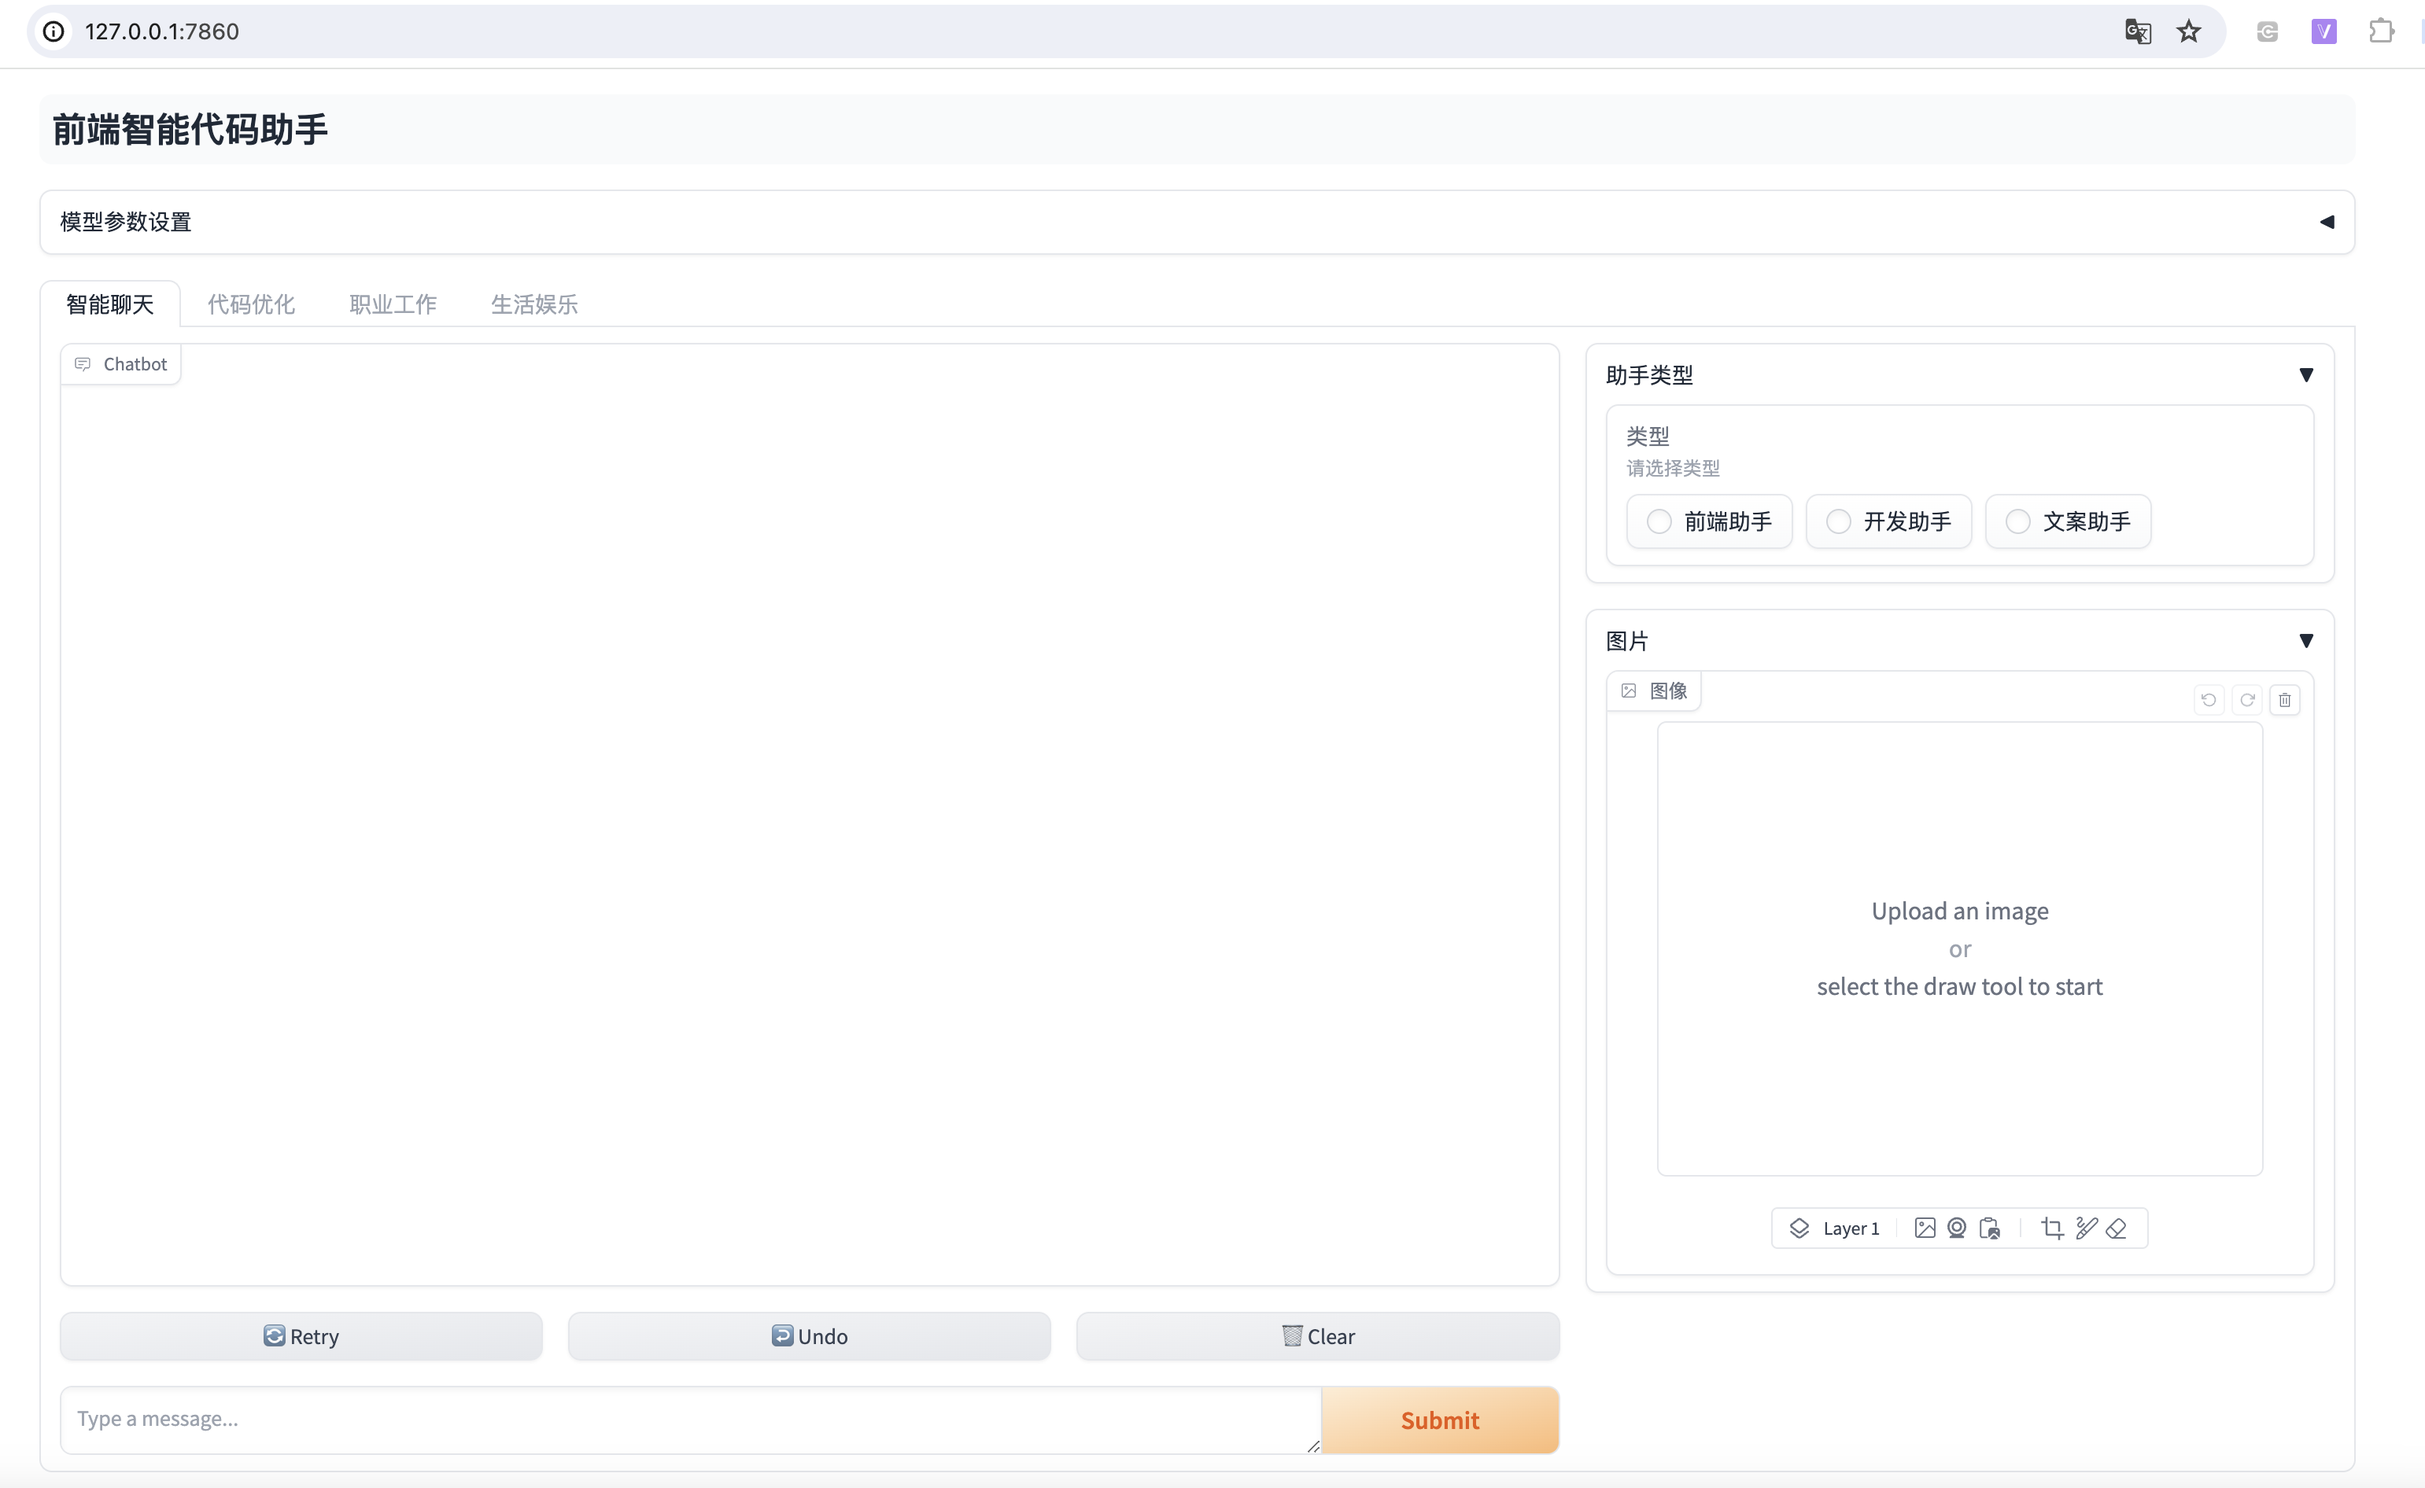
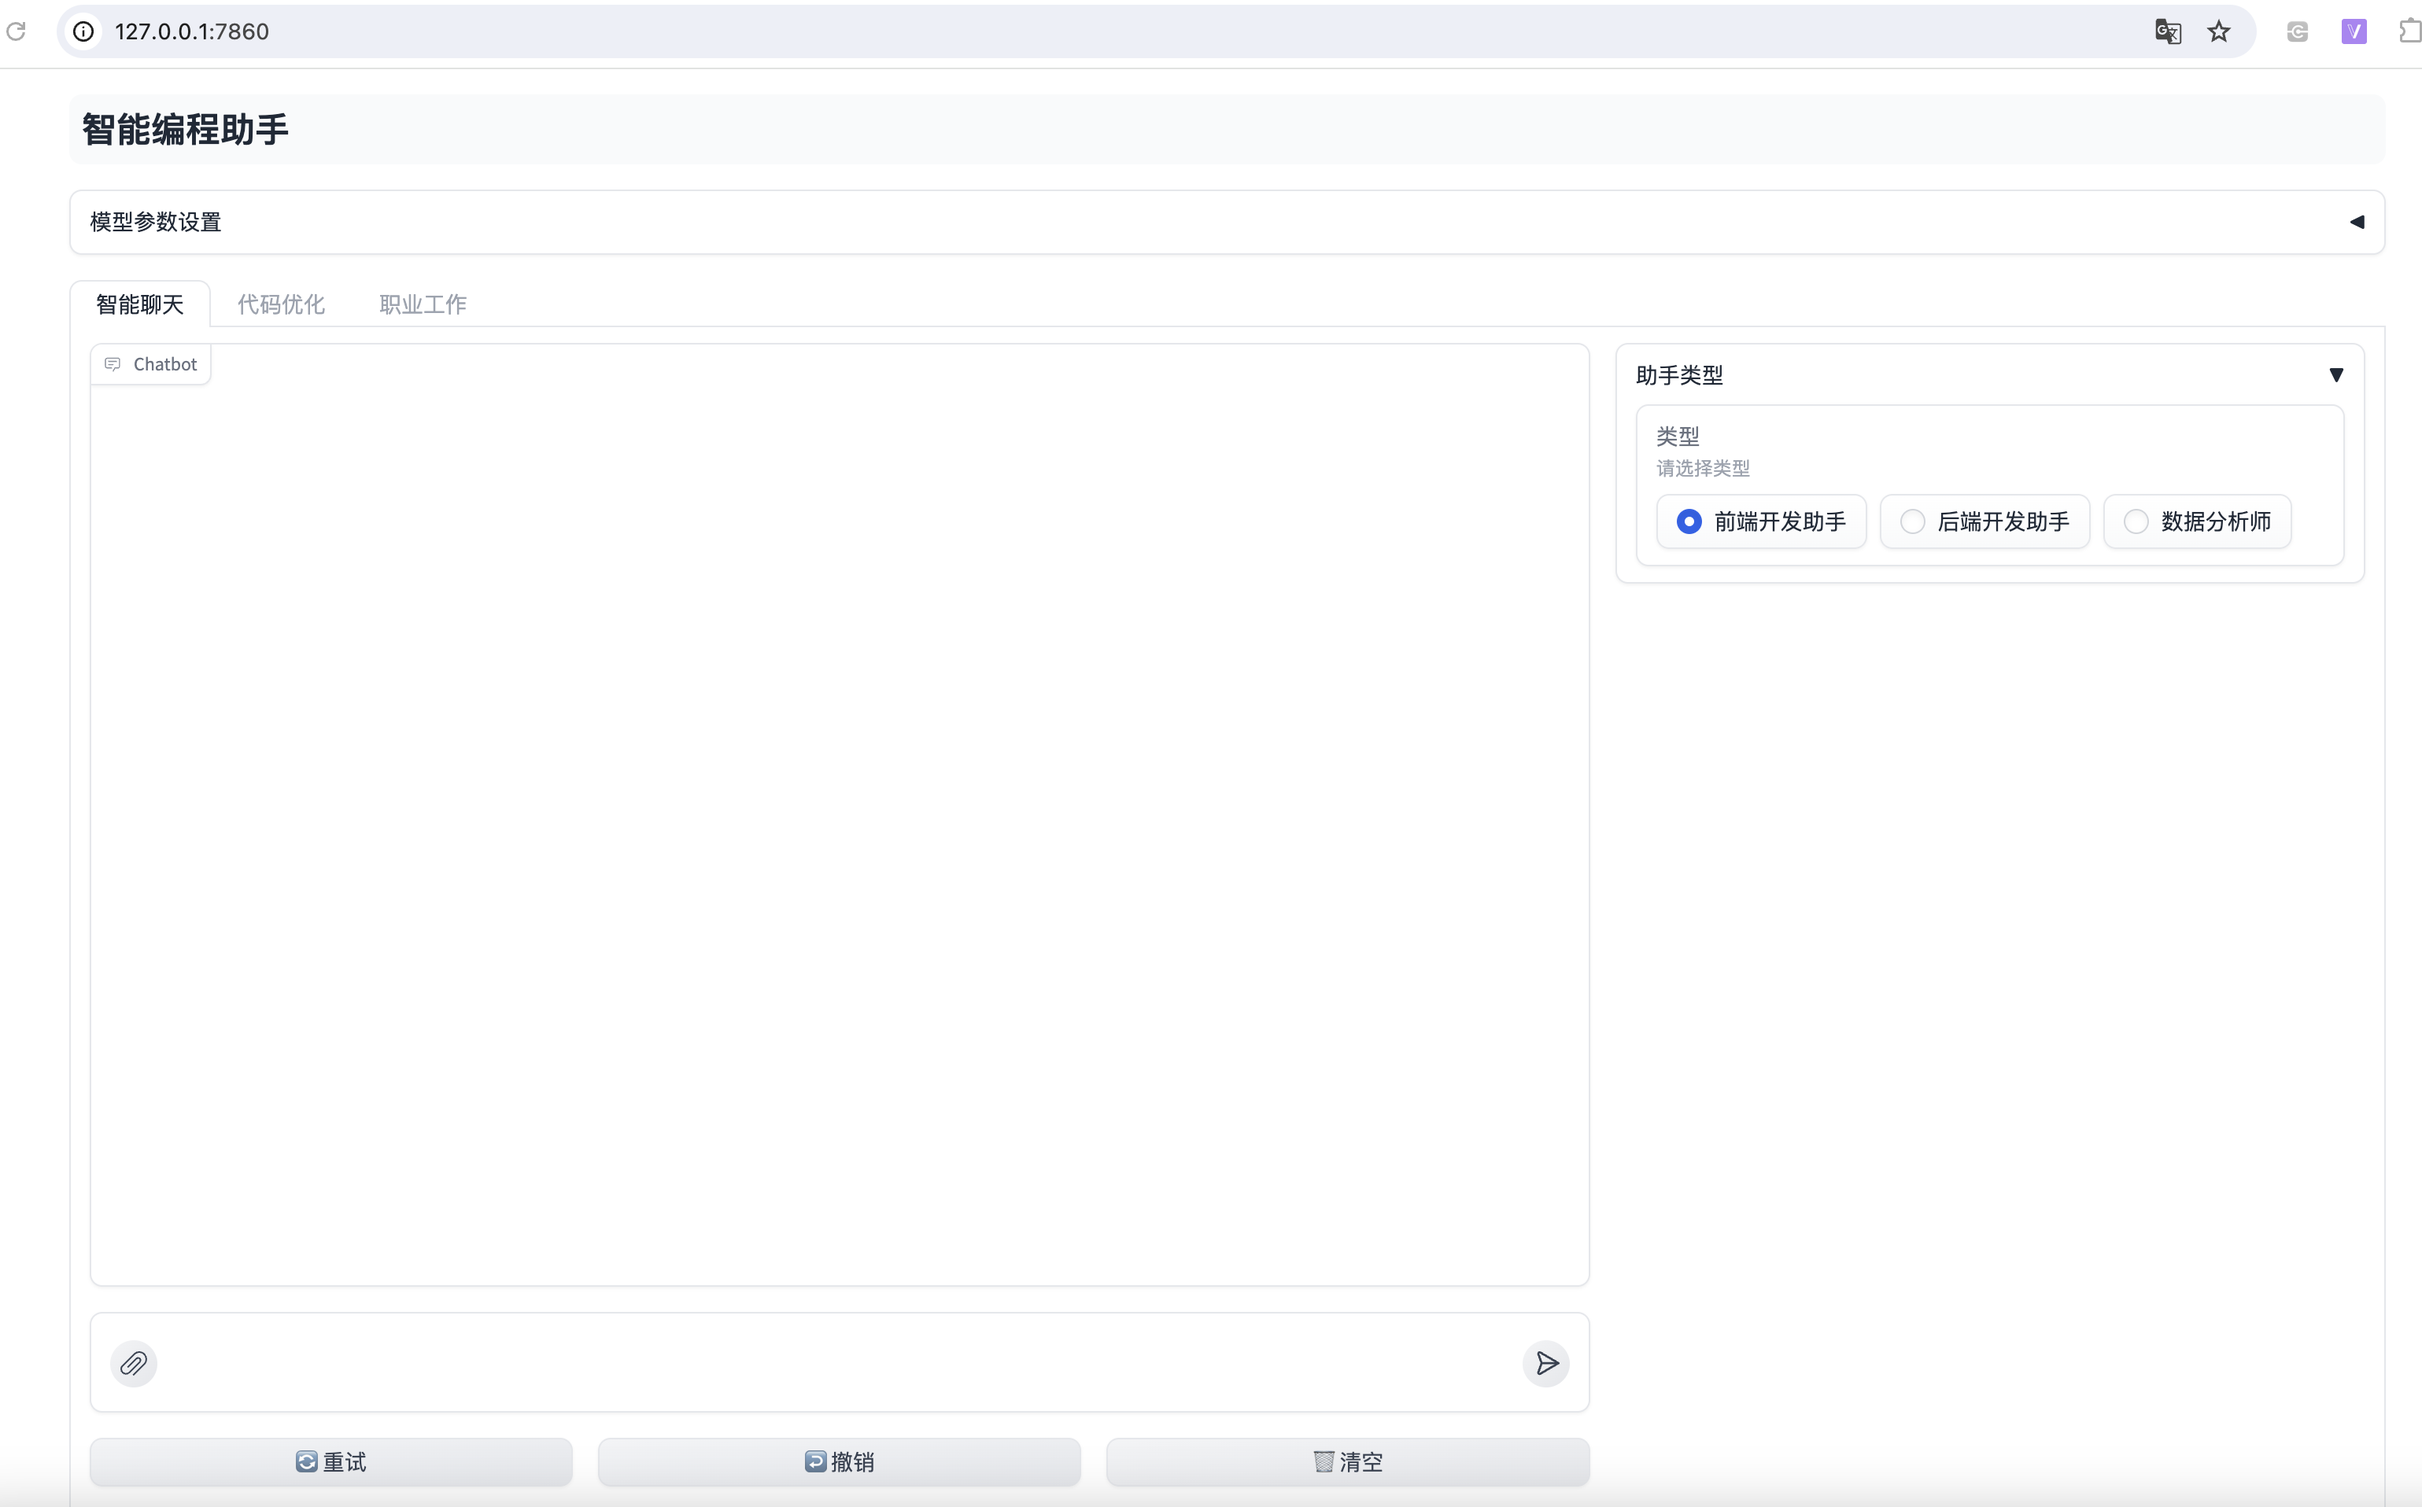
update

diff --git a/app.py b/app.py
@@ -161,7 +161,7 @@ with gr.Blocks() as app:
     chat_engine = gr.State(value=None)
     current_assistant = gr.State(value='前端开发助手')
     with gr.Row(variant='panel'):
-        gr.Markdown("## 智能编出助手")
+        gr.Markdown("## 智能编程助手")
     with gr.Accordion('模型参数设置', open=False):
         with gr.Row():
             provider = gr.Dropdown(
